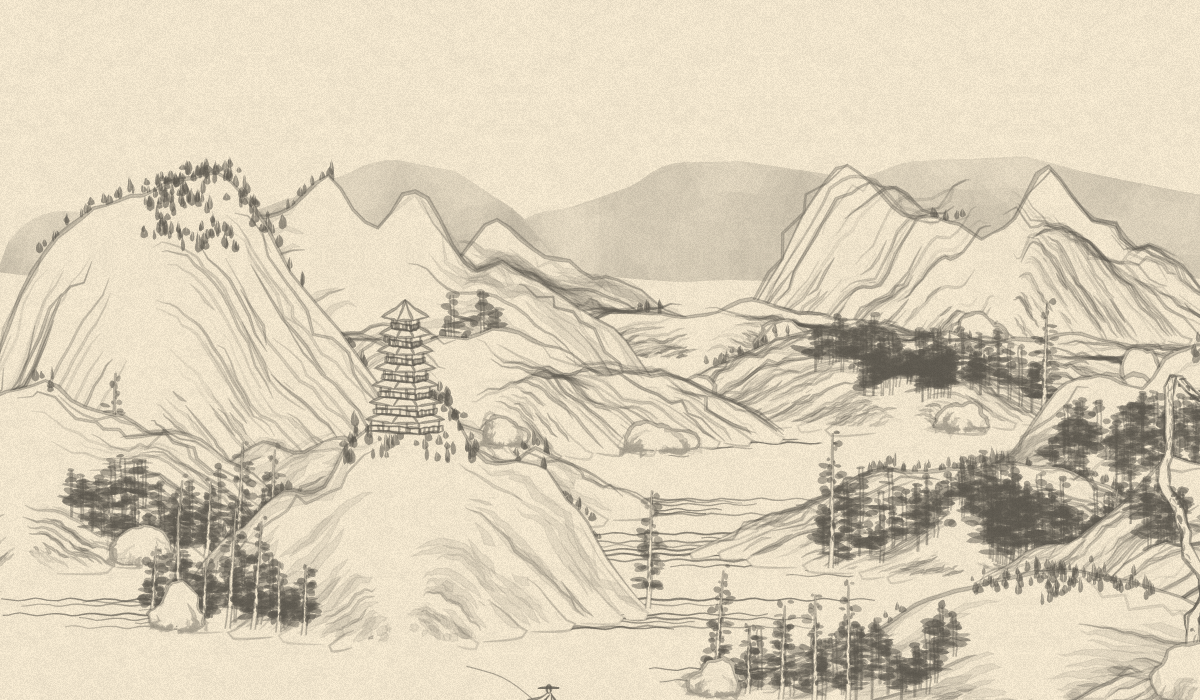
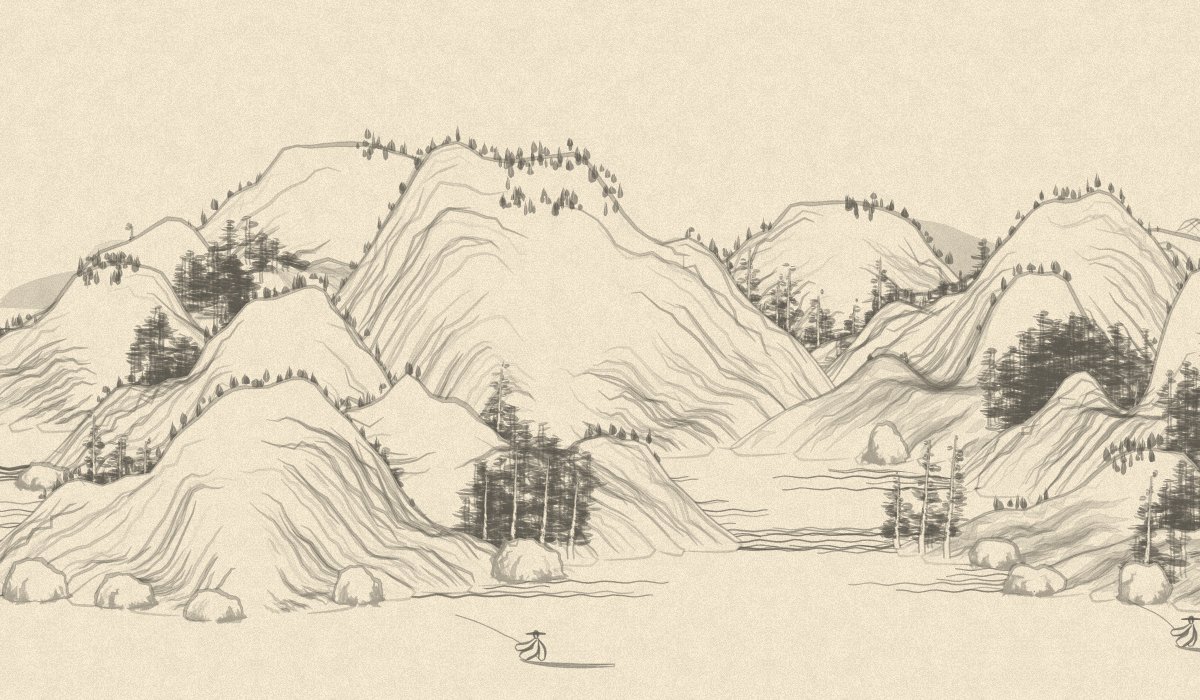
Record full-size GPU landscape and measured execution boundary

diff --git a/docs/verification.md b/docs/verification.md
@@ -109,3 +109,22 @@ mean channel error 0.716/255 and 0.254% of pixels differing by over 16/255. Thos
 historical figures verified the source study before the execution rewrite; they
 do not describe the current seed mapping. [Original algorithm studies](upstream.md)
 remain the construction authority.
+
+
+Current GPU construction, seed `1234`, 1200×700 pixels:
+
+![GPU-constructed landscape](images/gpu-1234.png)
+
+This image was inspected at native resolution. The final run reproduced its
+pixels on a cached redraw, uploaded **304 bytes** of scene settings/bookkeeping,
+read **48 bytes** of allocation summaries, and recorded zero main-thread GPU
+requests and zero observed main-thread long tasks. Instrumented peak buffer
+allocation was **79,964,628 bytes**. First-frame wall time was **160.7 seconds** on
+SwiftShader; this slow software result does not establish hardware performance.
+[Machine-readable measurements](measurements.json) include adapter identity,
+heartbeat timing, fixed-input errors and the tested code commit.
+
+The packed library includes both facade and worker. An isolated offline install
+passed strict consumer TypeScript without ambient WebGPU types, SSR import,
+capability probing and unchanged host randomness. Installed facade/worker bytes
+match the tested bundles. The portfolio checkout was left unchanged.
